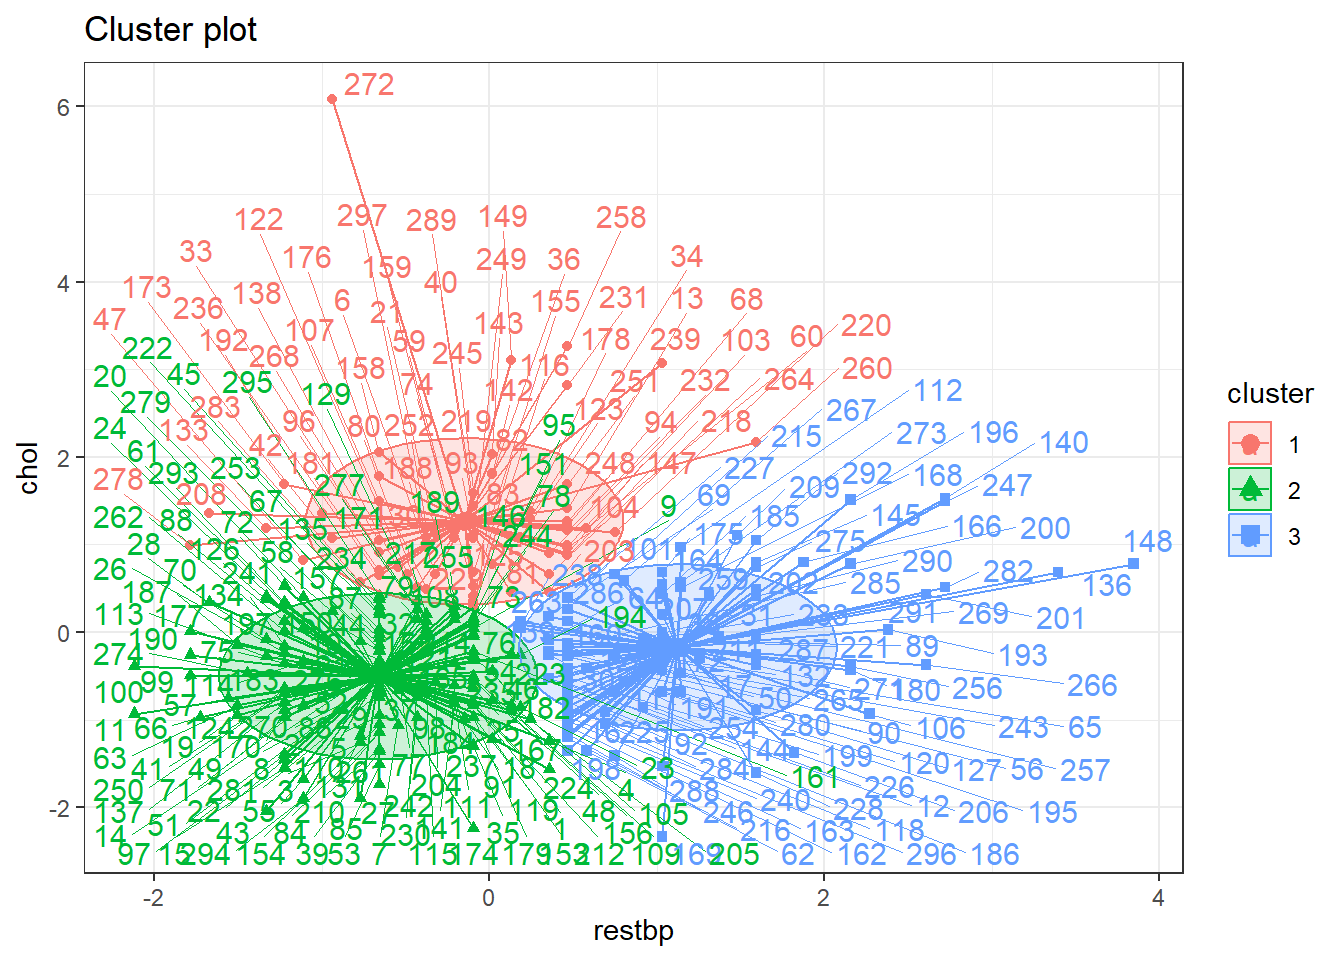
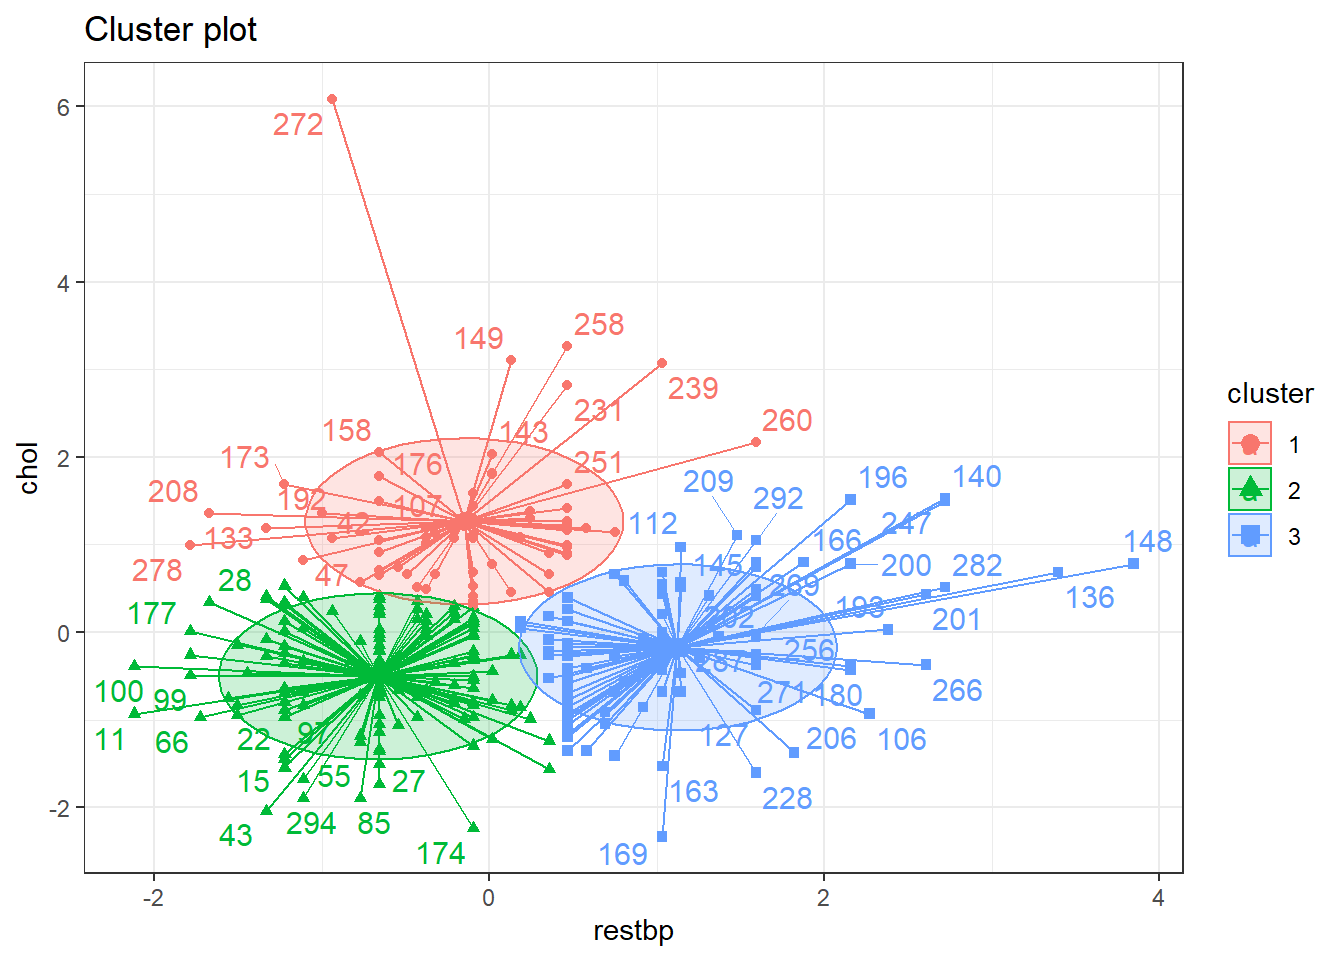
canvi d'una variable

diff --git a/clustering.html b/clustering.html
@@ -2,7 +2,7 @@
 <html xmlns="http://www.w3.org/1999/xhtml" lang="en" xml:lang="en"><head>
 
 <meta charset="utf-8">
-<meta name="generator" content="quarto-1.3.433">
+<meta name="generator" content="quarto-1.3.353">
 
 <meta name="viewport" content="width=device-width, initial-scale=1.0, user-scalable=yes">
 
@@ -94,6 +94,10 @@ ul.task-list li input[type="checkbox"] {
 </div>
 </div>
 <div class="cell">
+<div class="cell-output cell-output-stderr">
+<pre><code>Warning: ggrepel: 237 unlabeled data points (too many overlaps). Consider
+increasing max.overlaps</code></pre>
+</div>
 <div class="cell-output-display">
 <p><img src="clustering_files/figure-html/unnamed-chunk-10-1.png" class="img-fluid" width="672"></p>
 </div>
@@ -108,9 +112,9 @@ ul.task-list li input[type="checkbox"] {
 <div class="cell-output cell-output-stdout">
 <pre><code>       grupo real
 cluster  1  2  3
-      1 42 68 29
-      2  8 44 39
-      3 11 33 23</code></pre>
+      1 11 33 23
+      2 42 68 29
+      3  8 44 39</code></pre>
 </div>
 </div>
 <div class="cell">
